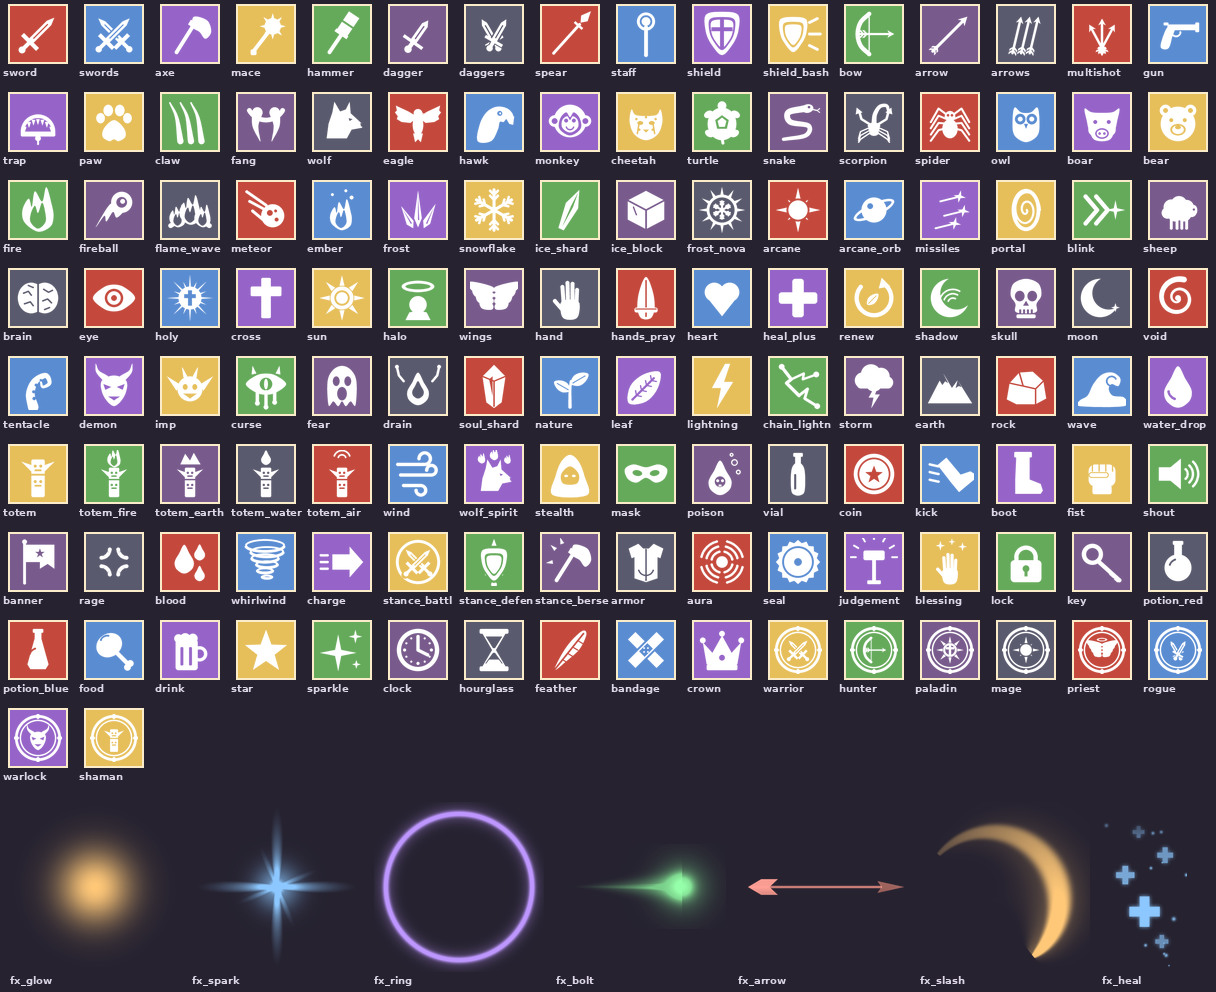
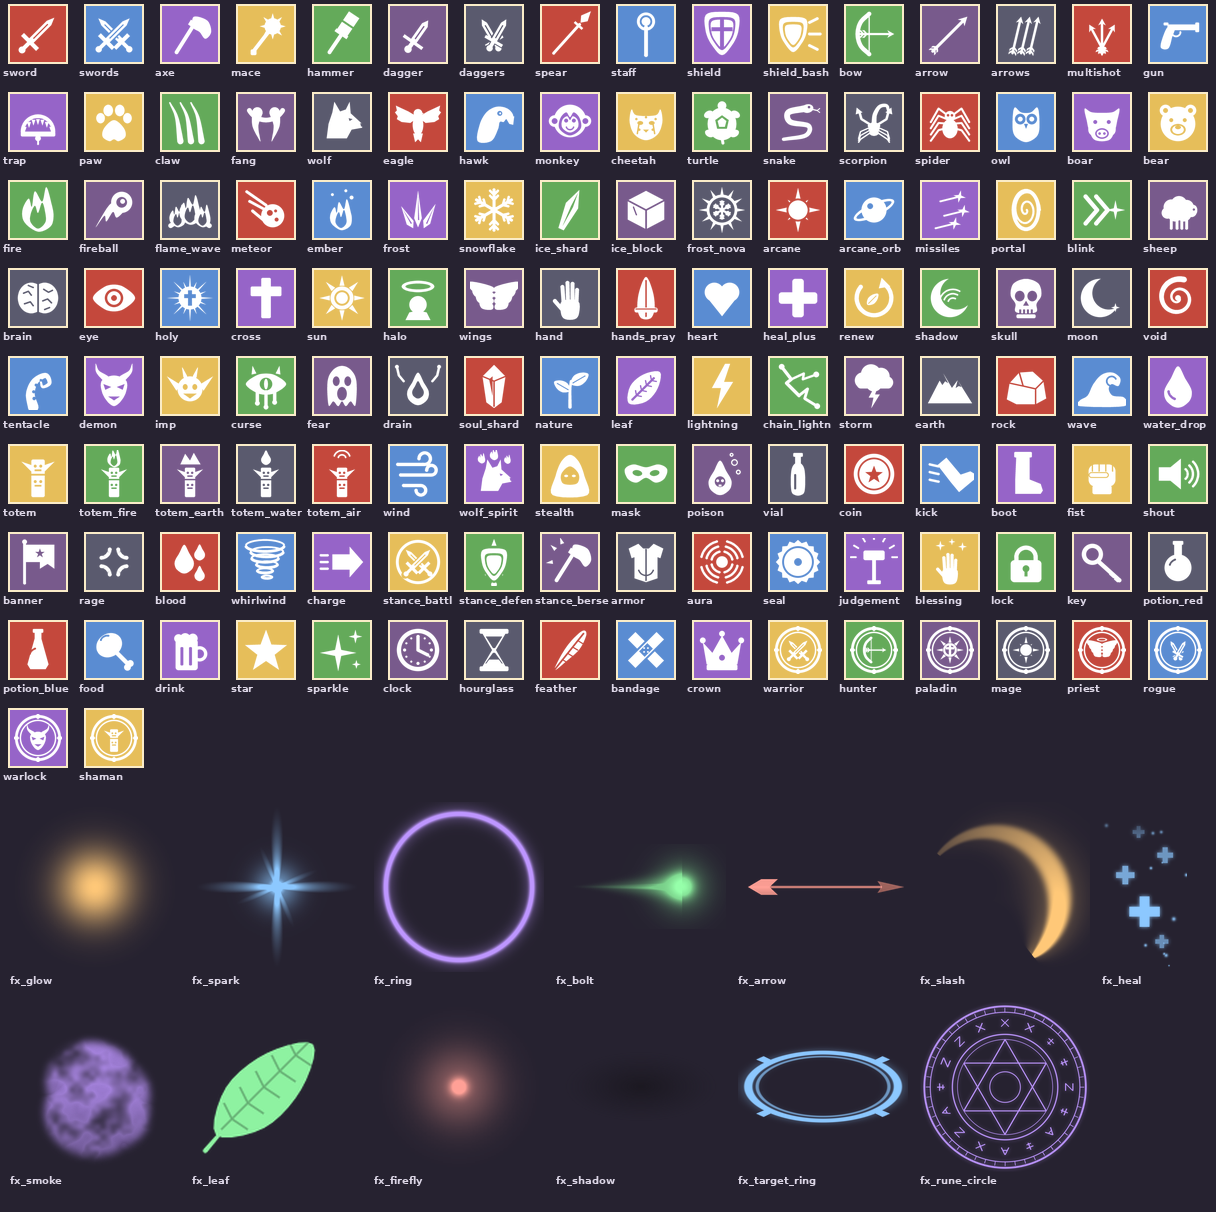
Lanternvale: painterly placeholder art for all 292 keys (Ghibli-style dioramas, FFX-inspired heroes), deterministic generator, art prompts for final production
Claude-Session: https://claude.ai/code/session_011LArcyrBqJEmJ4Jb4bxsuA

diff --git a/Lanternvale/Tools/artgen/contact_sheet.py b/Lanternvale/Tools/artgen/contact_sheet.py
@@ -130,7 +130,7 @@ def env_composite():
     tile_layer(c, "bg_mountains_far", 20, ppm * 0.62, 120)
     tile_layer(c, "bg_hills_far", 150, ppm * 0.62, 500)
     tile_layer(c, "bg_village_far", 330, ppm * 0.55, 150)
-    tile_layer(c, "bg_hills_near", 300, ppm * 0.6, 900)
+    tile_layer(c, "bg_hills_near", 362, ppm * 0.6, 900)
     # ground plane (squashed to suggest the oblique camera), hazed toward the horizon
     g = img("ground_meadow")
     gm = MAN["ground_meadow"]["height"] * ppm
@@ -295,7 +295,7 @@ def icons_sheet():
     cell = 76
     rows = int(math.ceil(len(glyphs) / float(cols)))
     fxk = [k for k in MAN if MAN[k]["category"] == "Effect"]
-    H = rows * (cell + 12) + 200
+    H = rows * (cell + 12) + 2 * 200 + 20
     c = Image.new("RGBA", (cols * cell, H), (38, 34, 48, 255))
     d = ImageDraw.Draw(c)
     f = font(10)
@@ -320,8 +320,9 @@ def icons_sheet():
         if k != "fx_shadow":
             a[..., :3] = a[..., :3] * np.array(tints[i % len(tints)]) / 255.0
         im = Image.fromarray(a.astype(np.uint8), "RGBA")
-        if x + im.width > c.width:
-            break
+        if x + max(im.width, 70) > c.width:
+            x = 10
+            y0 += 200
         c.alpha_composite(im, (x, y0 + (170 - im.height) // 2))
         d.text((x, y0 + 172), k, fill=(220, 214, 230), font=f)
         x += max(im.width, 70) + 12

diff --git a/Lanternvale/Tools/artgen/environment.py b/Lanternvale/Tools/artgen/environment.py
@@ -504,7 +504,8 @@ def bg_forest_far(key="bg_forest_far"):
         prof, centre = crown_row(cv, r, base, th, cr)
         m = cv.profile_mask(prof, 1.0)
         m = ragged(cv, m, 0.3, soft=1.0, cell=3, key="fr%d" % ri)
-        depth = Y - prof[None, :]
+        # mist depth from a smoothed crown line (no vertical streaks in narrow gaps between firs)
+        depth = Y - blur1d(np.minimum(prof, base + 40.0), th * 0.35)[None, :]
         sh = np.roll(np.roll(m, 9, 0), 7, 1)
         lit = cv.blur(np.clip(m - sh, 0, 1), 4.0) * 1.6
         shade = cv.blur(np.clip(m - np.roll(np.roll(m, -7, 0), -9, 1), 0, 1), 6.0)

diff --git a/Lanternvale/Docs/ArtKeys.md b/Lanternvale/Docs/ArtKeys.md
@@ -10,13 +10,13 @@ always runs, and real art can be dropped in later **with the same file name**.
 ```jsonc
 {
   "entries": [
-    { "key": "prop_cottage_a", "path": "Props/prop_cottage_a", "height": 6.0, "pivot": [0.5, 0.06],
+    { "key": "prop_cottage_a", "path": "Art/Props/prop_cottage_a", "height": 6.0, "pivot": [0.5, 0.06],
       "category": "Prop", "loop": false, "shadow": true }
   ]
 }
 ```
 
-* `path`: Resources path without extension. PNG with transparency.
+* `path`: Resources path without extension, including the `Art/` prefix (e.g. `Art/Props/prop_cottage_a`). PNG with transparency. Folders: `Art/{Backgrounds,Ground,Props,Foreground,Characters,Portraits,Creatures,Effects,Icons,UI}`.
 * `height`: height in **world metres** the sprite is drawn at (width follows the image aspect ratio).
   For `loop` backgrounds, `height` is the layer height. Icons/UI ignore it.
 * `pivot`: normalised pivot; props/characters stand on their pivot (feet at y ≈ 0.04–0.08).
